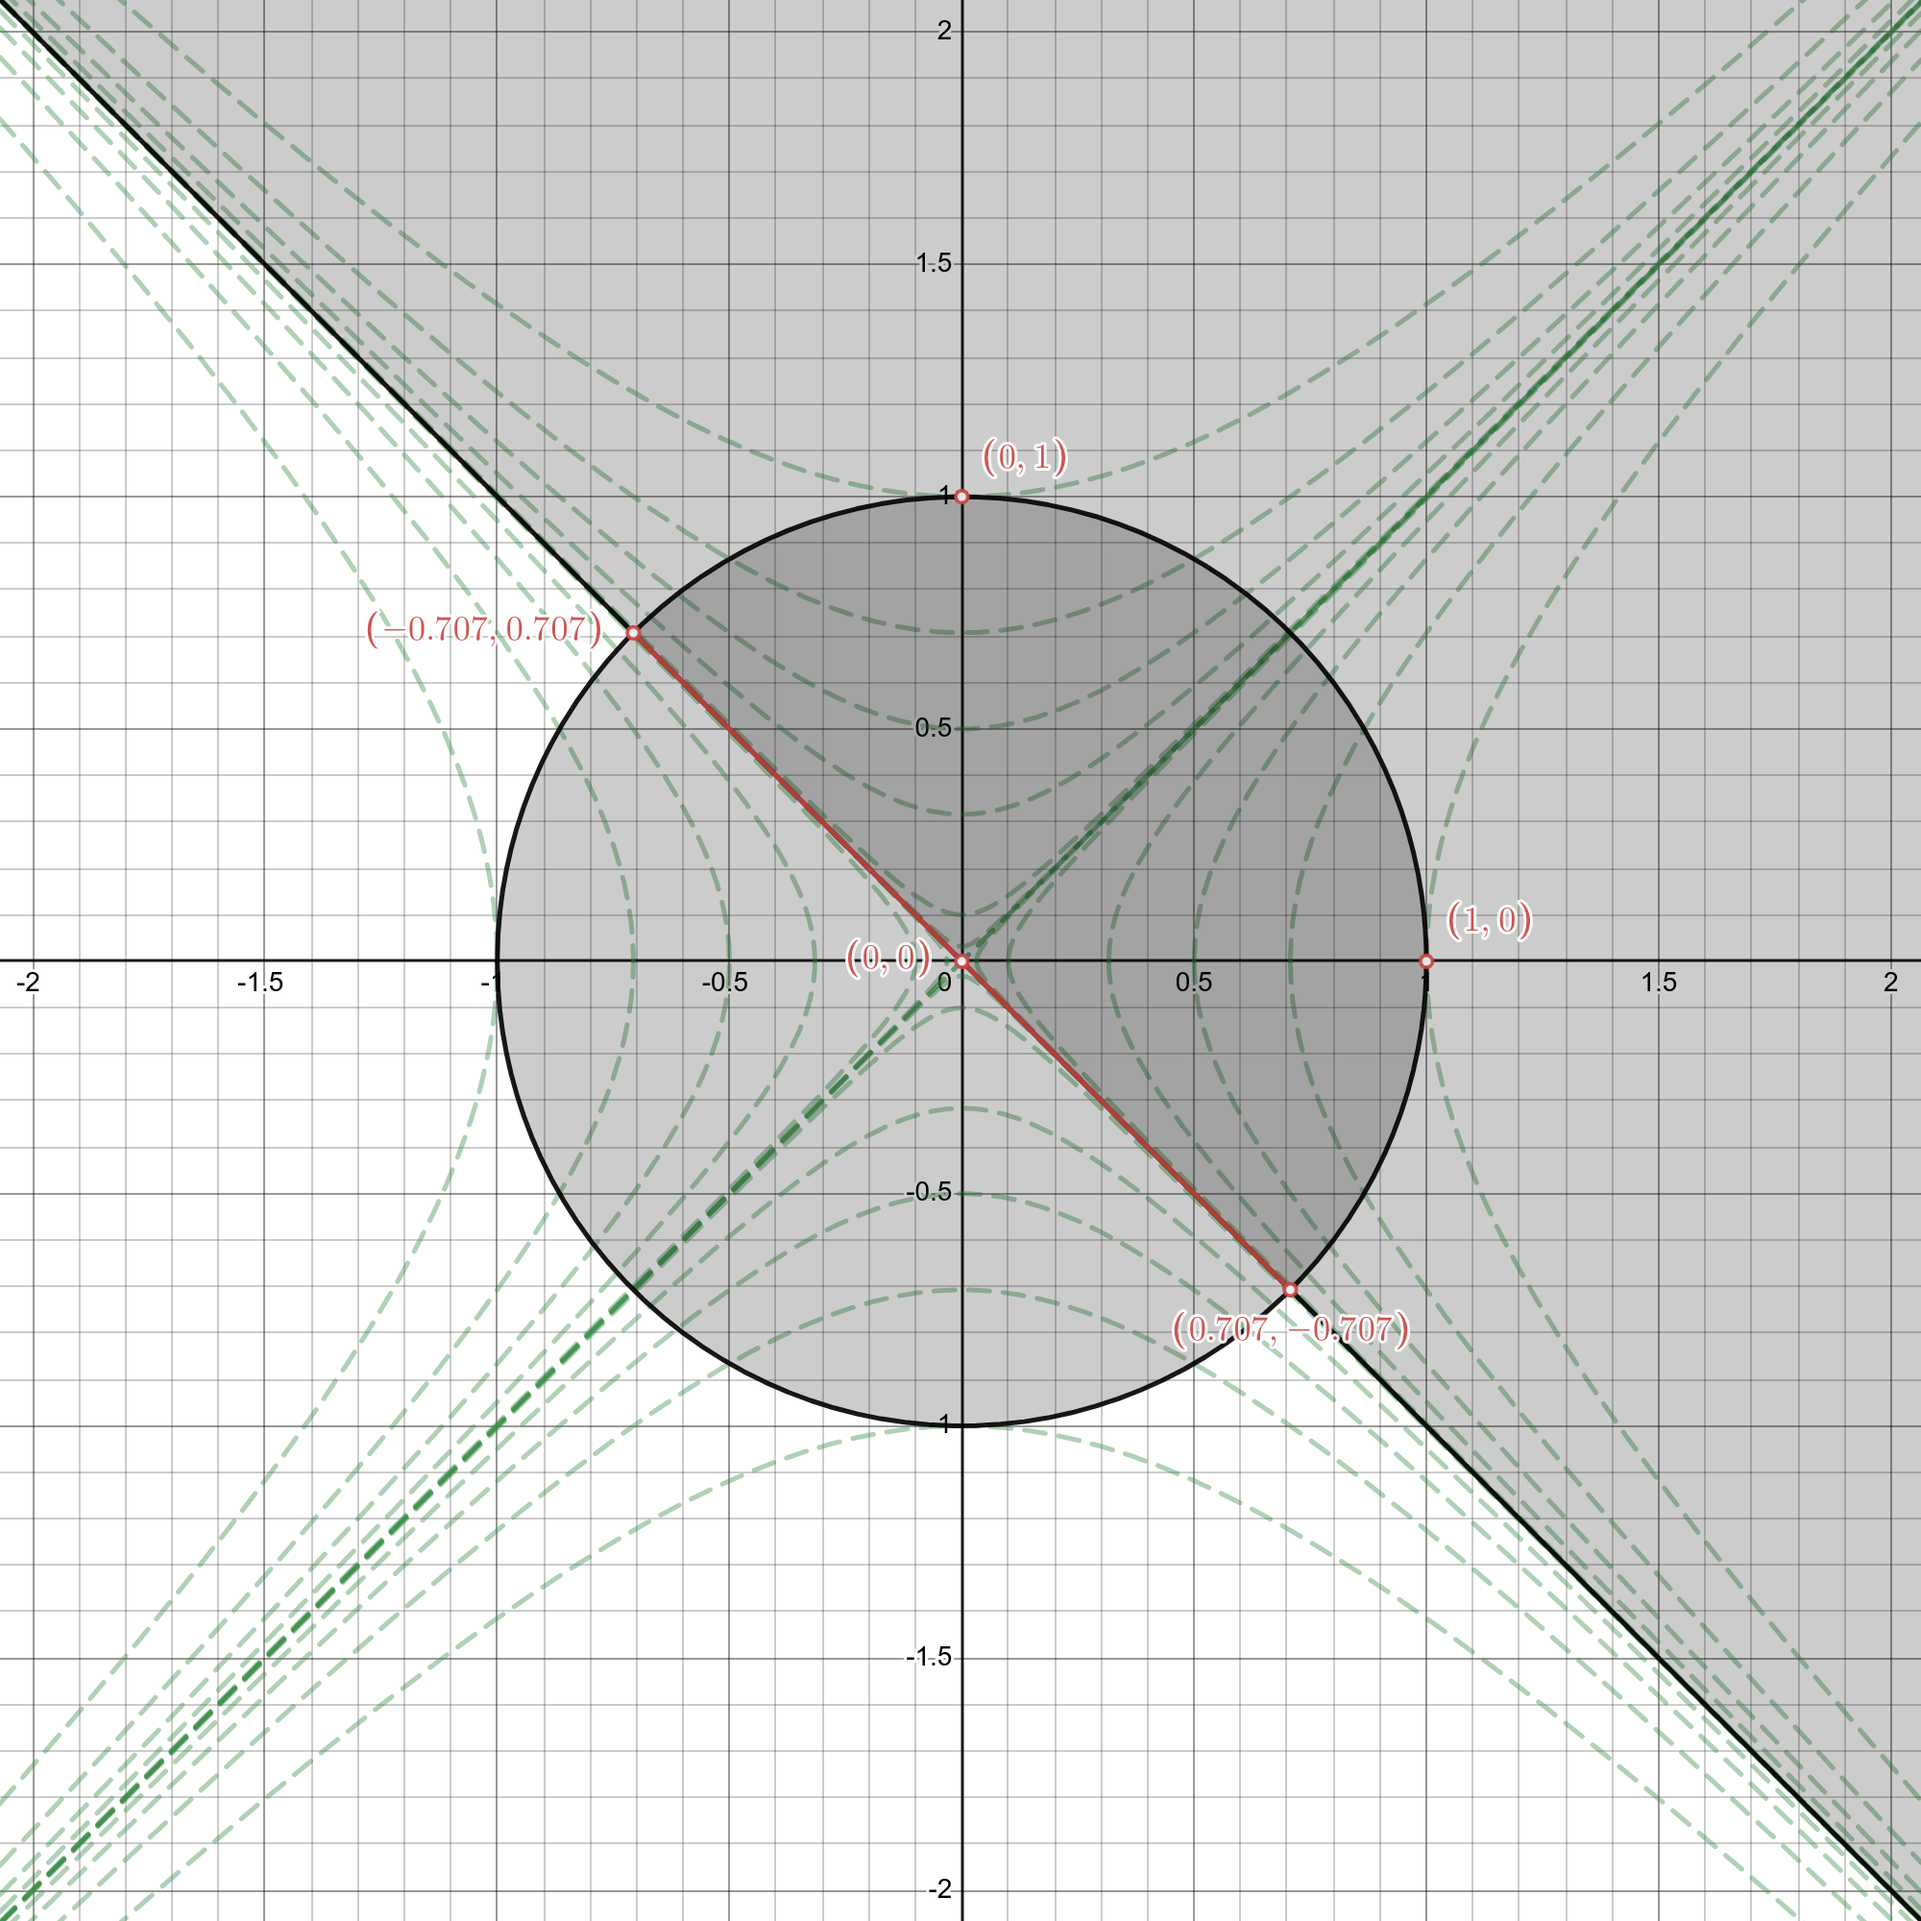
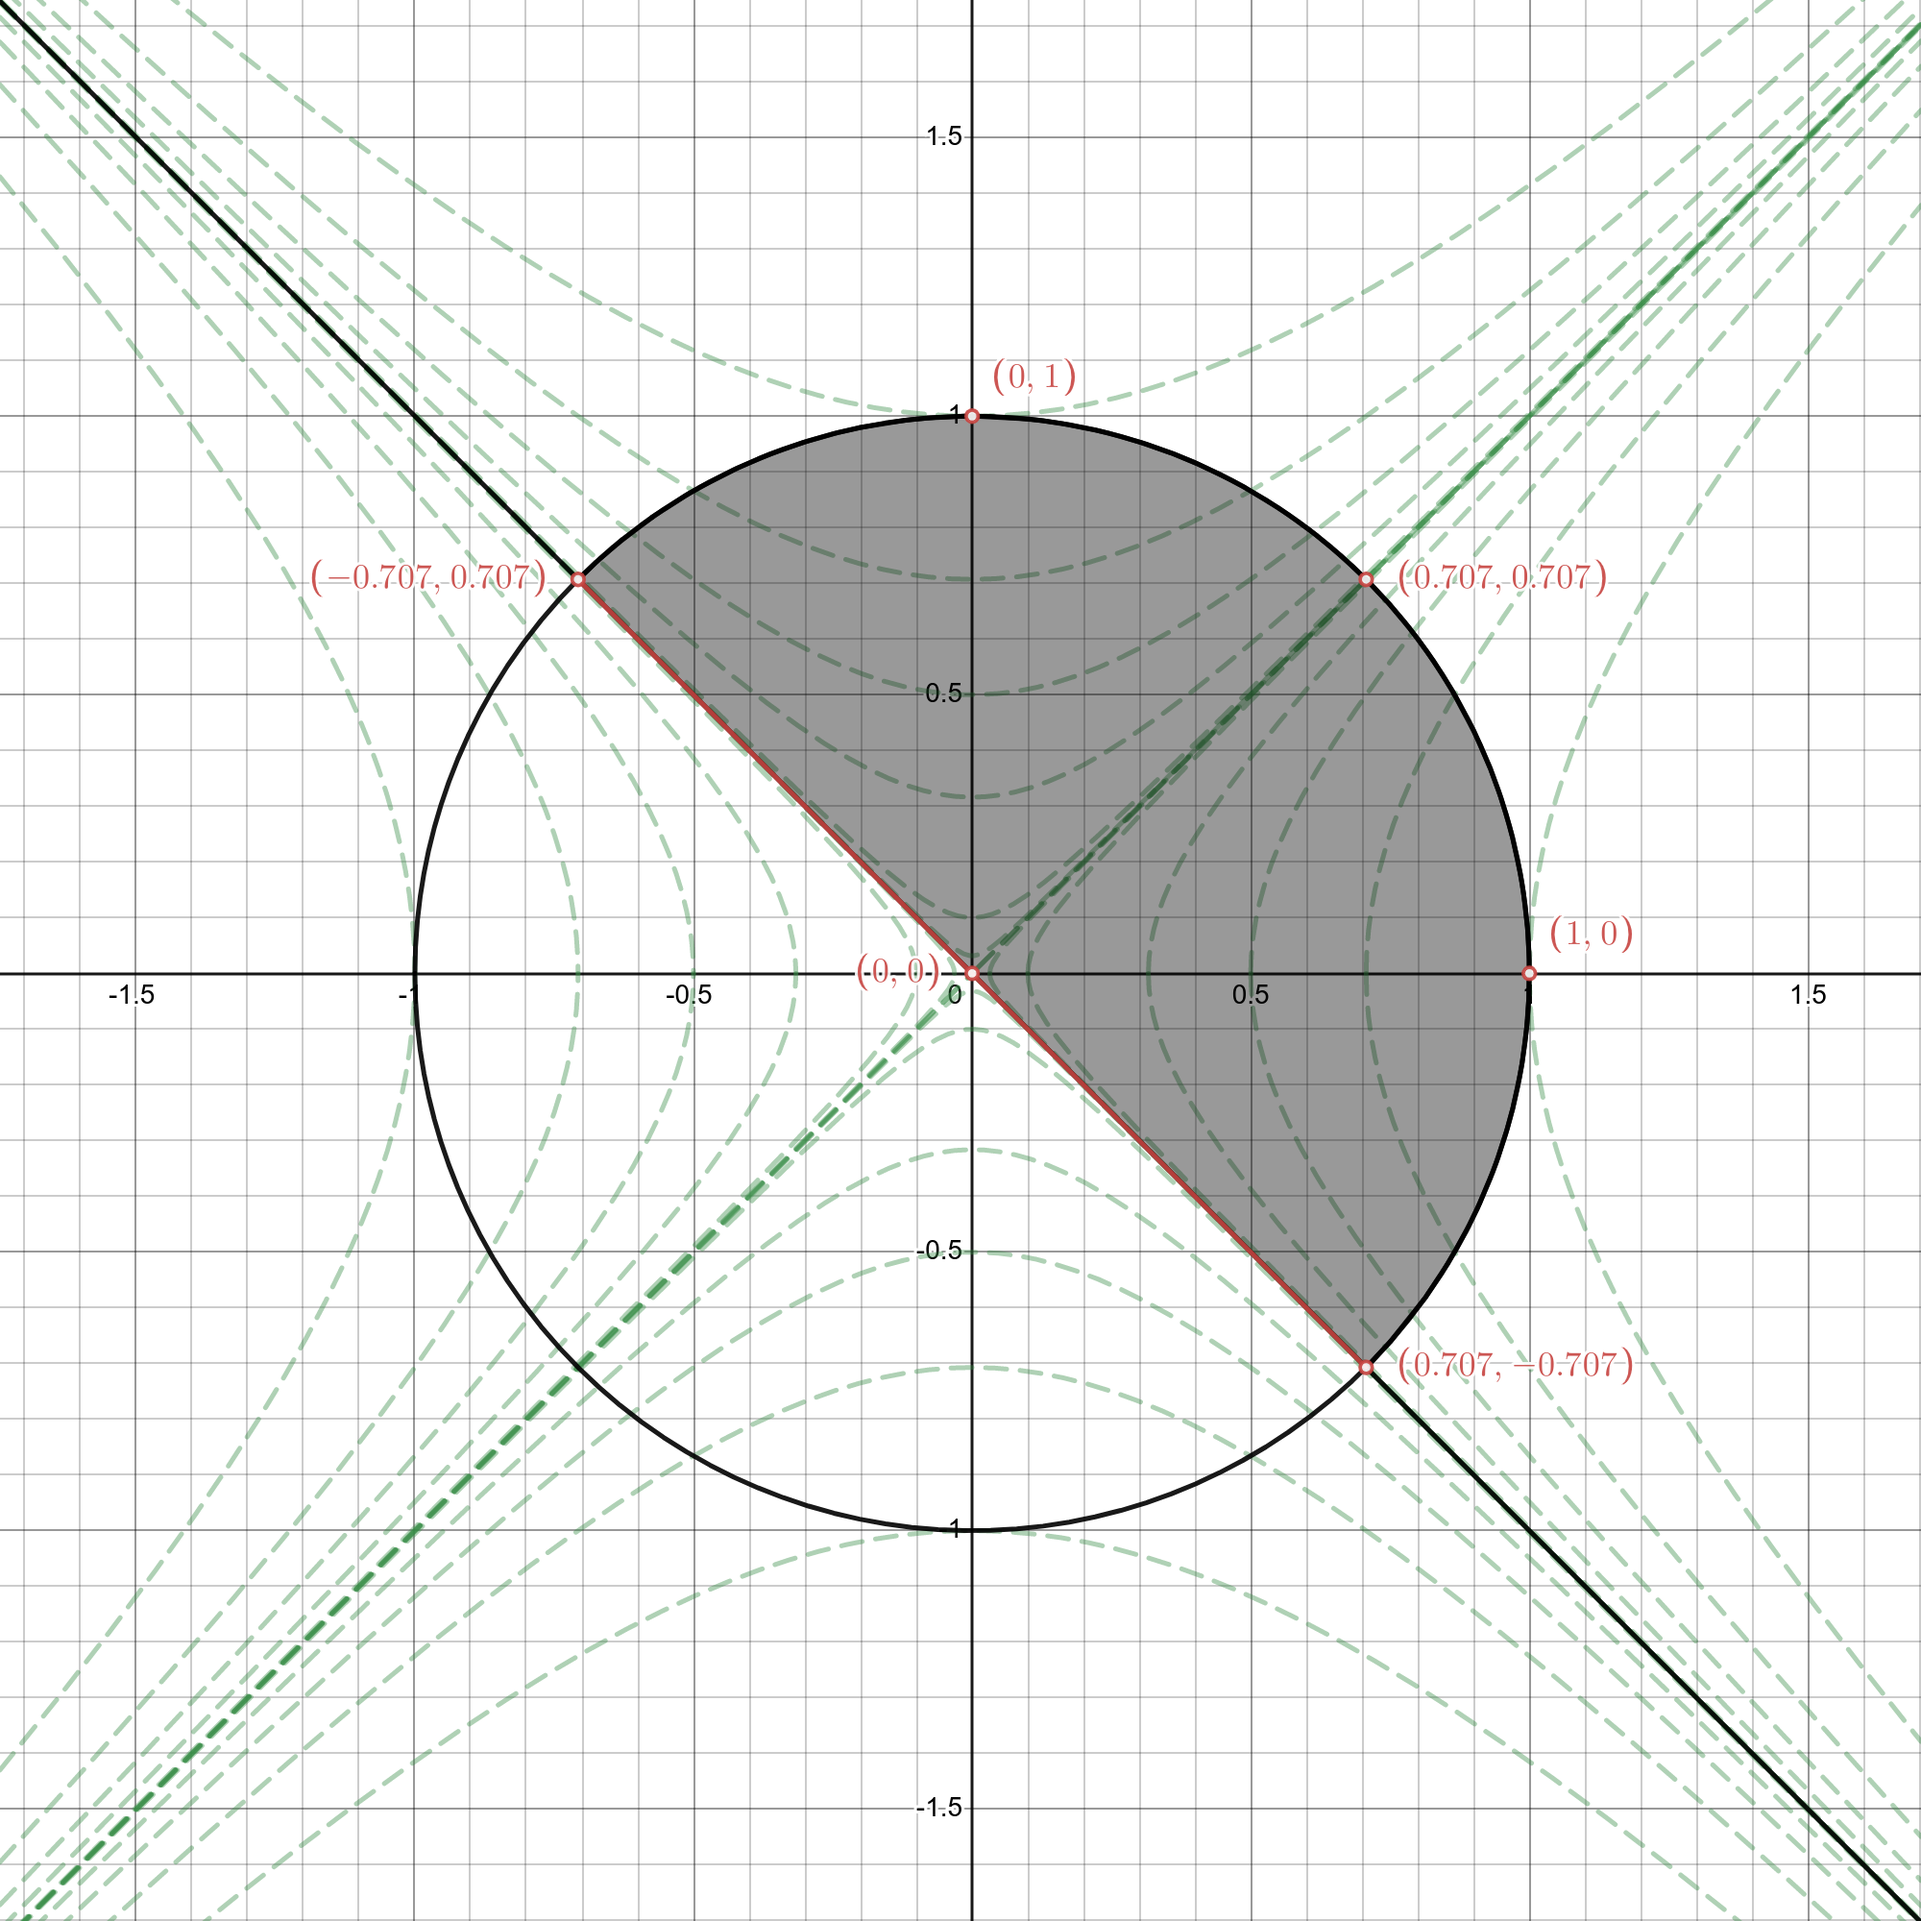
MATH5420/Exam2: Added rigorous argument for min/max/saddle line in problem 4b.

diff --git a/2023/spring/MATH5420_Optimization/Exam2/problem_4b.tex b/2023/spring/MATH5420_Optimization/Exam2/problem_4b.tex
@@ -190,9 +190,34 @@ Find and classify all minimizers, maximizers, and saddle points.
 
     from which we obtain no further information beyond the fact that $x_1 = -x_2$ is a level curve of $f$. When 
     $x_1 > 0$, we have $\lambda_2 > 0$ so that the necessary (but not sufficient) conditions for a minimizer are 
-    satisfied for $x_1 \in \mathopen( 0, \frac{1}{\sqrt{2}}\mathclose ]$. Similarly, the necessary conditions for a 
-    maximizer are satisfied for $x_1 \in \mathopen[ -\frac{1}{\sqrt{2}}, 0 \mathclose)$ and at $x_1 = 0$, we simply have
-    $x_1 = x_2 = \lambda_1 = \lambda_2 = f(x) = 0$. These results are confirmed graphically in Figure 
+    satisfied for $x_1 \in \mathopen( 0, \frac{1}{\sqrt{2}}\mathclose ]$. In particular, for the feasible direction 
+    $p = (1, 1)^T$ and any $\epsilon > 0$ along $x_1 = -x_2$ (so that $f(x_1, x_2) = 0$), we have
+
+    \begin{align*}
+        f(x + \epsilon p) &= f(x_1 + \epsilon, x_2 + \epsilon) \\
+                          &= x_1^2 + 2x_1 \epsilon + \epsilon^2 - (x_2^2 + 2x_2 \epsilon + \epsilon^2) \\
+                          &= f(x_1, x_2) + 2 \epsilon (x_1 - x_2) \\
+                          &= 2 \epsilon (x_1 - x_2).
+    \end{align*}
+
+    Hence $f(x + \epsilon p) > f(x)$ whenever $x_1 > x_2$ and $f(x + \epsilon p) < f(x)$ whenever $x_1 < x_2$. Since
+    $x_1 \ge x_2$ along $x_1 = -x_2$ when $x_1 > 0$, we have conclude that this segment of our active constraint is a
+    local minimizer. A similar argument in the other direction shows that $x_1 = -x_2$ is a local maximizer for 
+    $x_1 < 0$.
+
+    At $x_1 = 0$, we simply have $x_1 = x_2 = \lambda_1 = \lambda_2 = f(x) = 0$. For feasible direction $p_1 = e_1$, we
+    have
+
+
+    \begin{align*}
+        f(x + \epsilon p_1) &= f(x_1 + \epsilon, x_2) \\
+                            &= x_1^2 + 2x_1 \epsilon + \epsilon^2 - x_2^2 \\
+                            &= \epsilon^2 \\
+    \end{align*}
+
+    so that $f(x + \epsilon p_1) > f(x)$ for all $\epsilon > 0$. A similar argument for $p_2 = e_2$ shows that 
+    $f(x + \epsilon p_2) = -\epsilon^2$ and hence $f(x + \epsilon p_2) < f(x)$ for all $\epsilon < 0$. The stationary 
+    point $(0, 0)^T$ is therefore a saddle point. These results are confirmed graphically in Figure 
     \ref{fig:problem_4b}.
 
     \begin{figure}[h]

diff --git a/2023/spring/MATH5420_Optimization/Exam2/problem_4c.tex b/2023/spring/MATH5420_Optimization/Exam2/problem_4c.tex
@@ -2,9 +2,9 @@ Add the points from (b) to the sketch of the feasible region.
 
 \begin{solution}
     The feasible region and all stationary points is plotted below in Figure \ref{fig:problem_4c}; the feasible region 
-    is represented by the darkest shaded region. Stationary points and curves are represented in red and level curves of
-    the objective function are represented in green. The horizontal axis represents $x_1$ and the vertical axis 
-    represents $x_2$.
+    is represented by the shaded region. Stationary points and curves are represented in red and level curves of the 
+    objective function are represented in green. The horizontal axis represents $x_1$ and the vertical axis represents 
+    $x_2$.
 
     \begin{figure}[h]
         \centering

diff --git a/2023/spring/MATH5420_Optimization/Exam2/problem_1d.tex b/2023/spring/MATH5420_Optimization/Exam2/problem_1d.tex
@@ -15,10 +15,10 @@ For what range of $\alpha$ does this update step satisfy the Armijo condition wh
                       &= 12 \alpha^2 - 44 \alpha + 42.
     \end{align*}
 
-    For $\mu = -\frac{2}{44}$, the right-hand side becomes
+    For $\mu = \frac{2}{44}$, the right-hand side becomes
 
     $$
-    f(x_0) + \mu \alpha p^T \nabla f(x_0) = 42 - \frac{2}{44} \alpha \left( -44 \right) = 42 - 2 \alpha.
+    f(x_0) + \mu \alpha p^T \nabla f(x_0) = 42 + \frac{2}{44} \alpha \left( -44 \right) = 42 - 2 \alpha.
     $$
 
     Combining these results yields:

diff --git a/2023/spring/MATH5420_Optimization/Exam2/problem_4a.tex b/2023/spring/MATH5420_Optimization/Exam2/problem_4a.tex
@@ -2,7 +2,7 @@ Sketch the feasible region.
 
 \begin{solution}
     The feasible region is plotted below in Figure \ref{fig:problem_4a}; the feasible
-    region is represented by the darkest shaded region. The horizontal axis represents $x_1$ and the vertical axis 
+    region is represented by the shaded region. The horizontal axis represents $x_1$ and the vertical axis 
     represents $x_2$.
 
     \begin{figure}[h]
